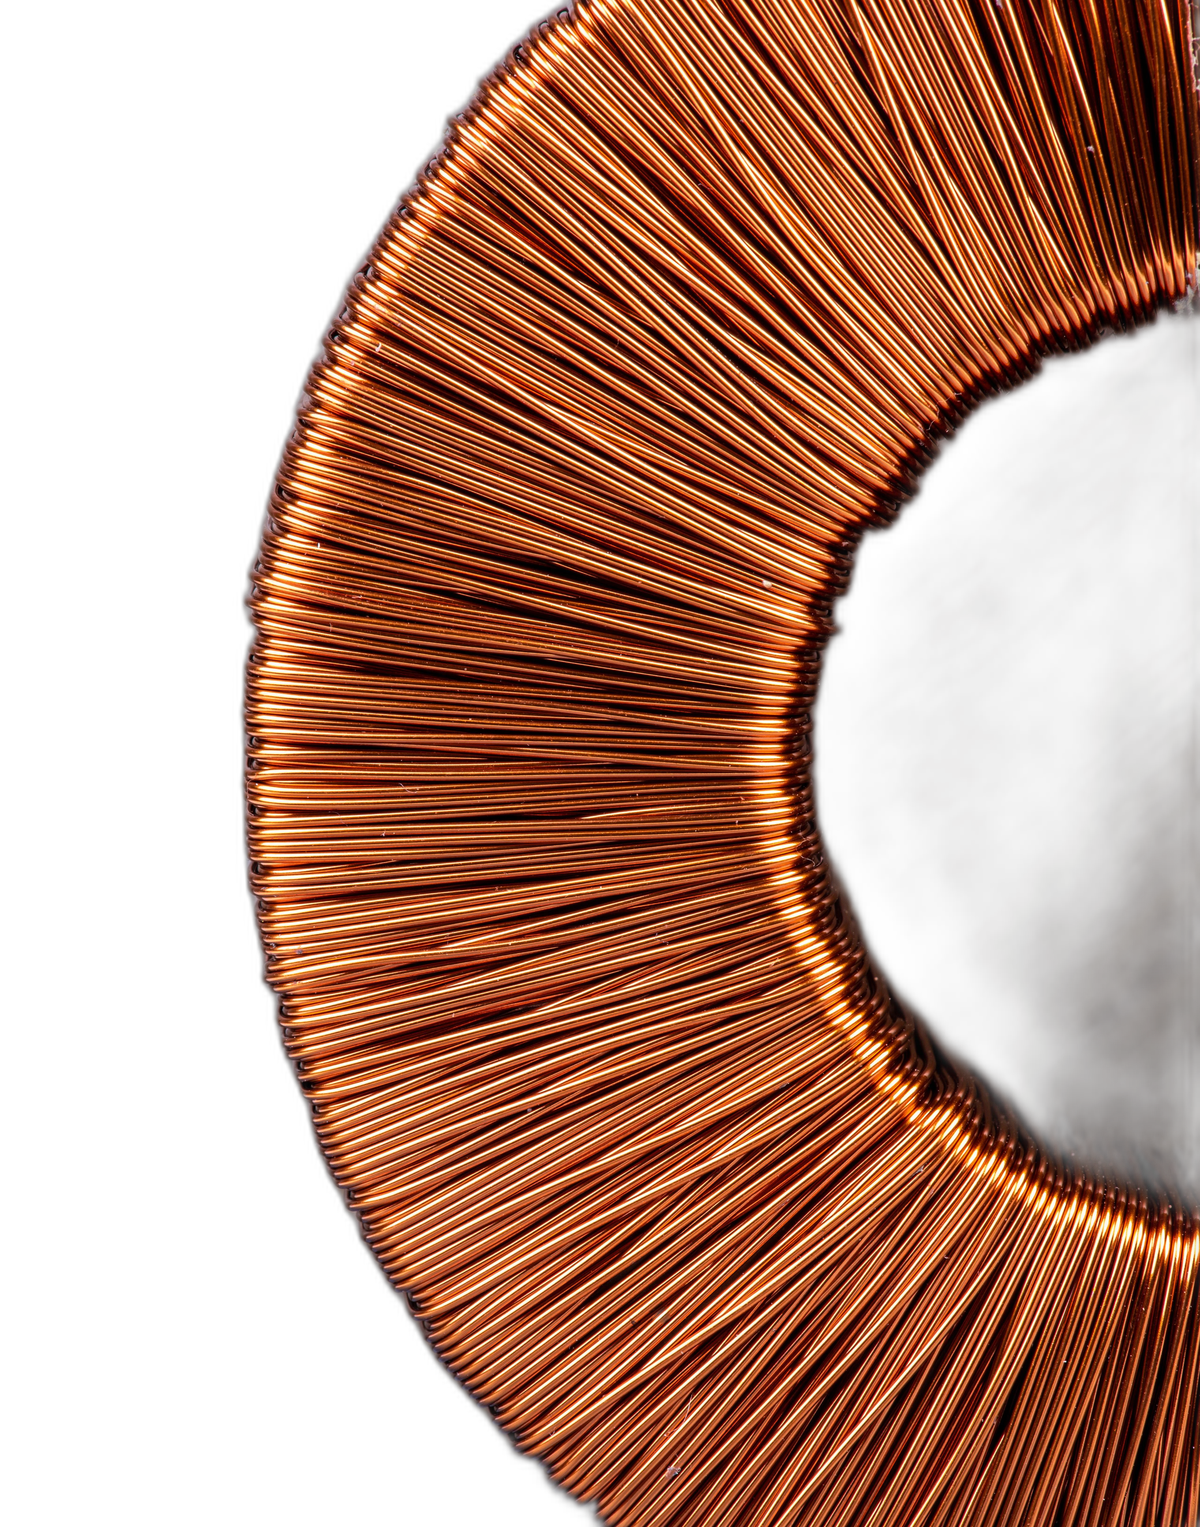
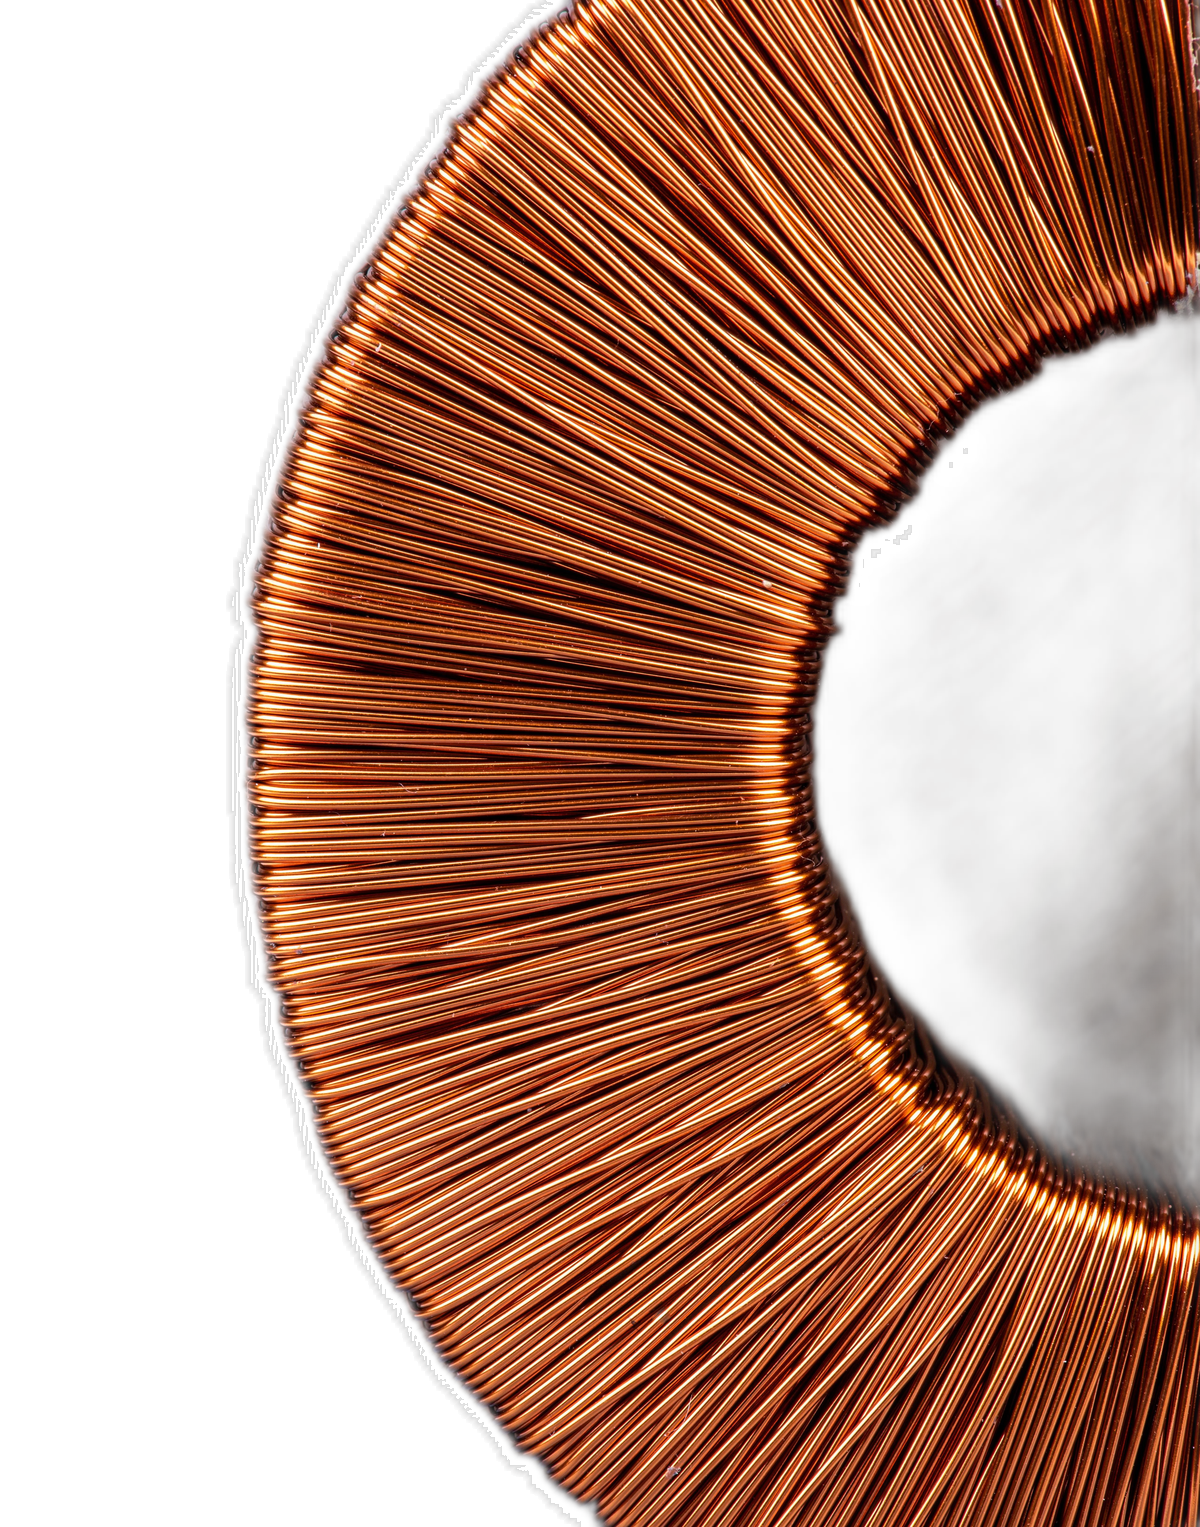
Update How We Work copy, feather inductor image edges
New headline: direct, confident tone about working by text and phone.
Feathered outer edge of hero inductor PNG for natural blend into dark bg.

diff --git a/index.html b/index.html
@@ -84,7 +84,7 @@
       <div class="section-header section-header--center">
         <p class="section-label">How We Work</p>
         <div class="process__headline animate-on-scroll">
-          <h2 class="section-title">Conversationally.<br>We update you by text and call.<br>Not by drab, responsibility-evading emails that read like they were written by Gen Z.</h2>
+          <h2 class="section-title">We work conversationally, by text and phone call.<br>Not by one-sentence emails written by a wage slave middle manager with no skin in your game.</h2>
         </div>
         <a href="learn-more.html" class="btn btn--learn-more animate-on-scroll">Learn More &rarr;</a>
       </div>
